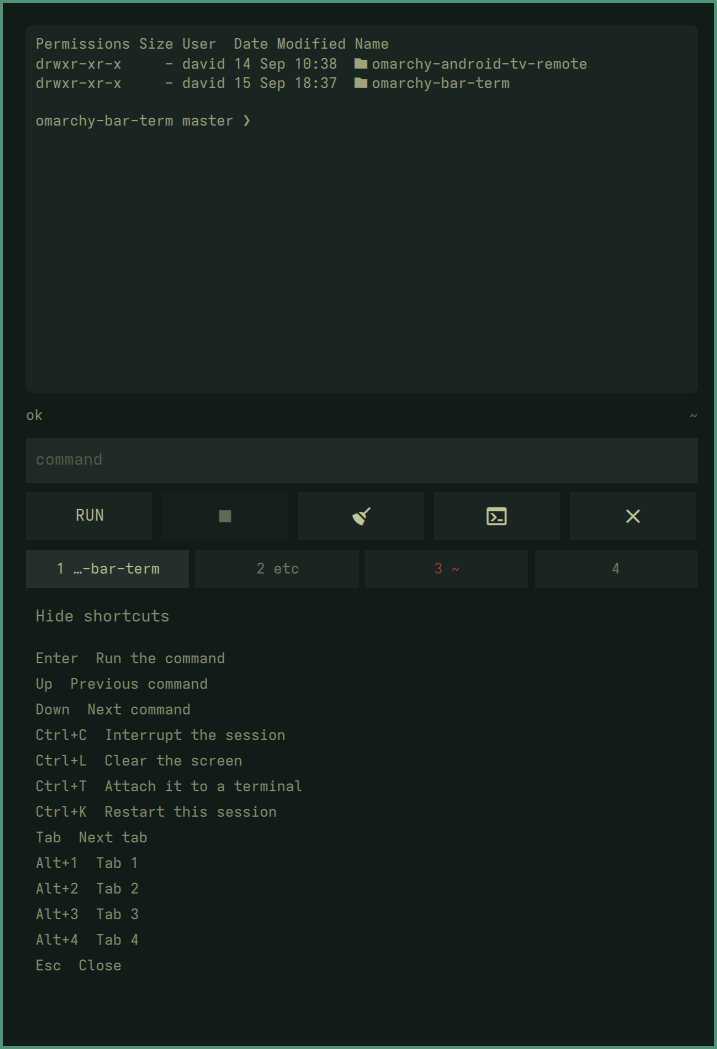
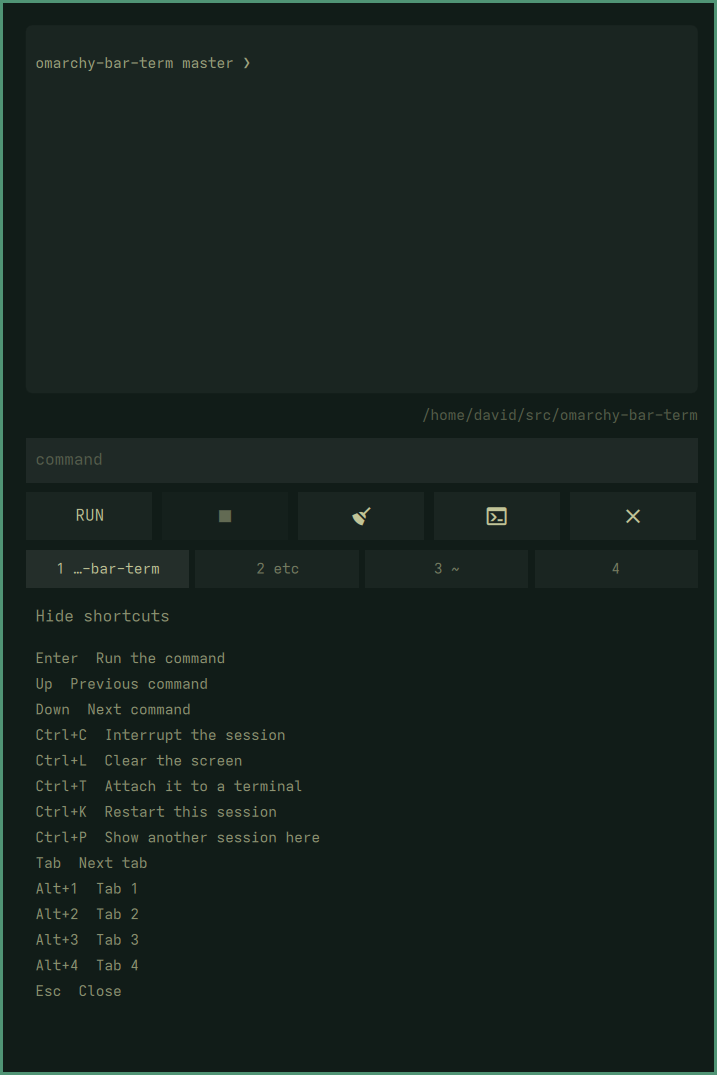
docs: a picture of the picker, and the longer key list
Claude-Session: https://claude.ai/code/session_01NsuTX3xQbZ1pzCFMGiucjP

diff --git a/README.md b/README.md
@@ -93,6 +93,10 @@ you would rather not untangle.
 tab at the one you pick. A session you started in a terminal this morning shows up in the
 bar with its scrollback intact, and typing in the pad types into it.
 
+<p align="center">
+  <img src="docs/picker.png" alt="Ctrl+P: every tmux session on the server, with where each one is" width="420">
+</p>
+
 A tab showing a session it did not make says so: it is labelled with the session's name
 rather than its directory, and the name appears beside the prompt. Picking the tab's own
 `bar-term-<n>` again puts it back. The choice is kept in `shell.json`, so it survives a
